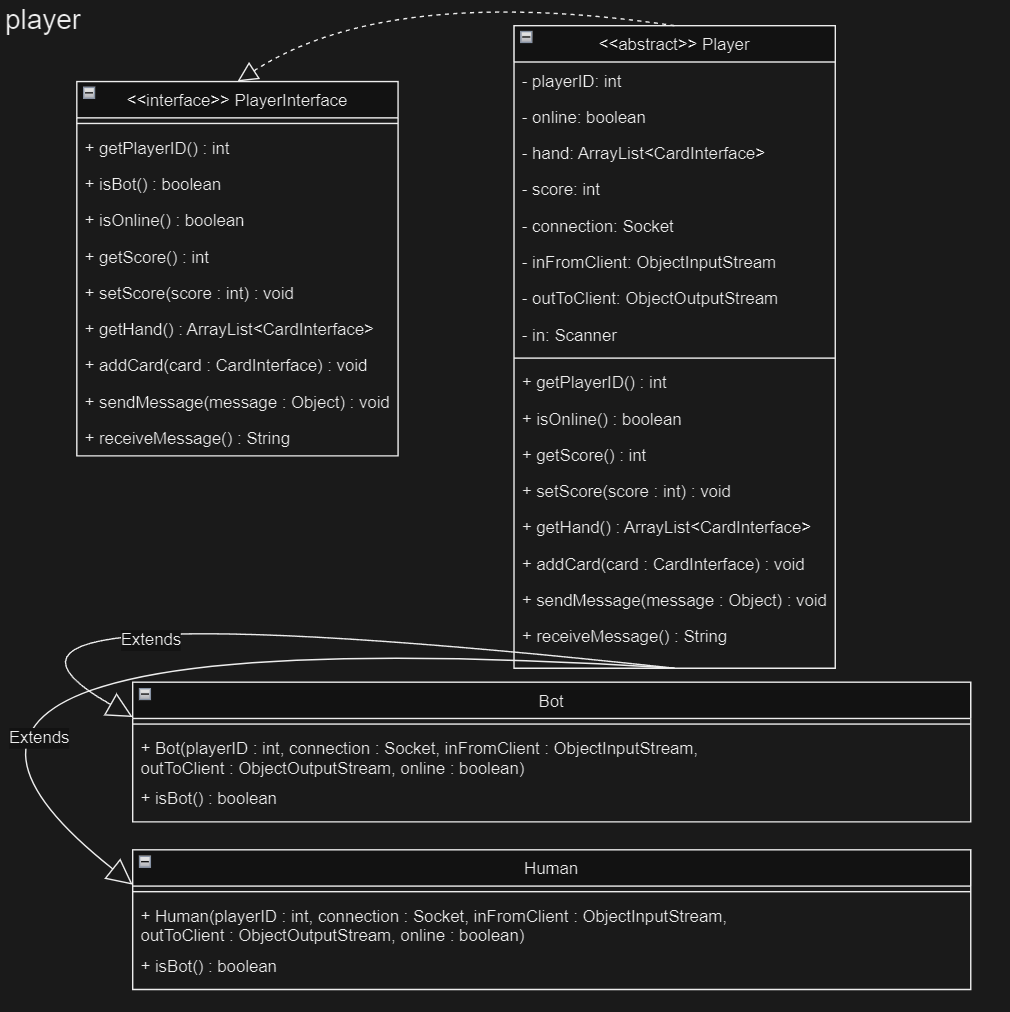
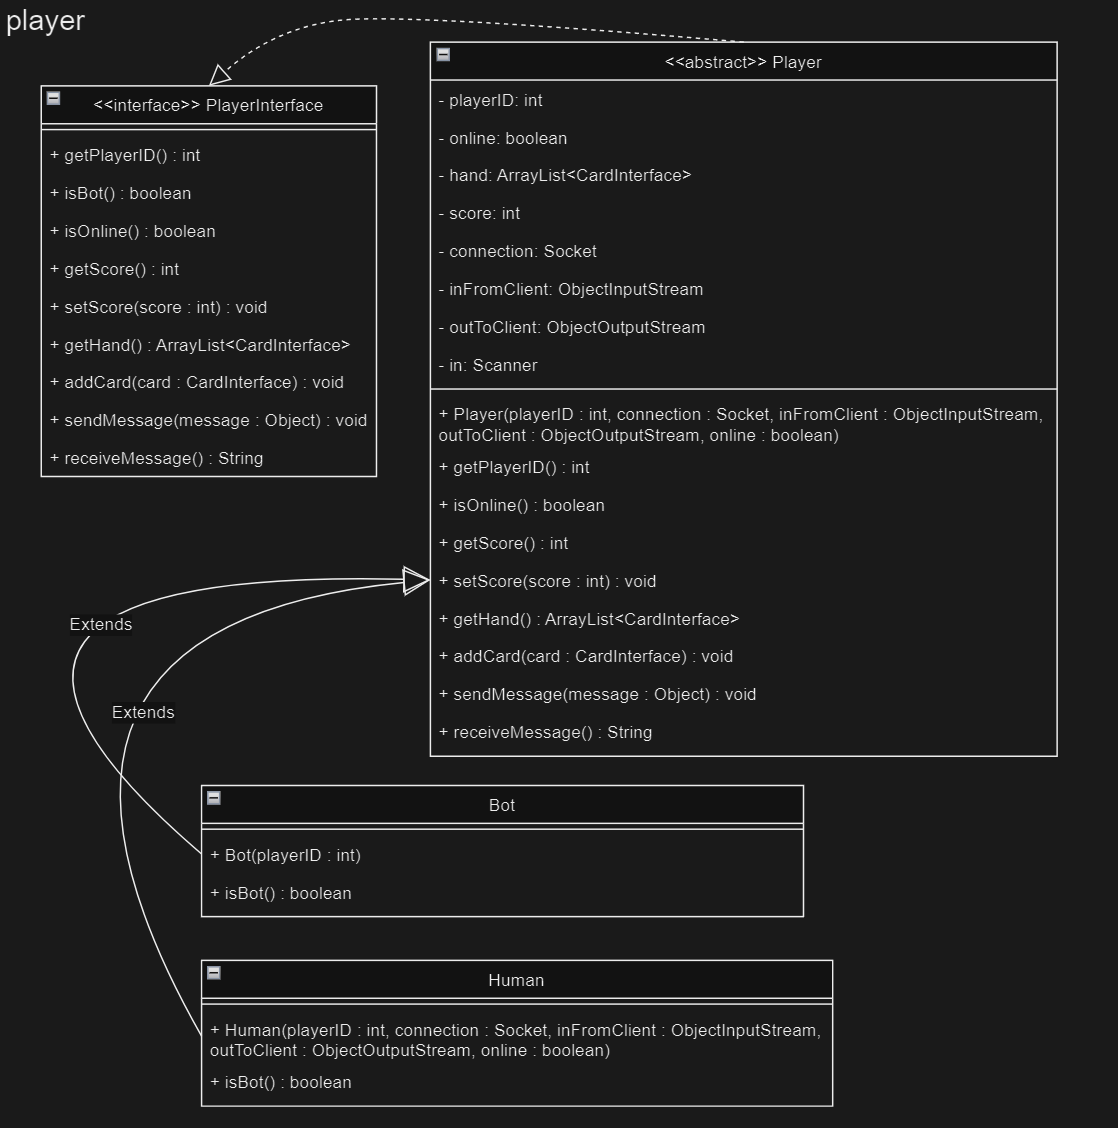
final fixes

diff --git a/src/PointSalad.java b/src/PointSalad.java
@@ -1,7 +1,9 @@
 package src;
 
 import src.game.GameLoop;
+import src.game.GameLoopInterface;
 import src.game.GameSetup;
+import src.game.GameSetupInterface;
 import src.game.GameStateInterface;
 import src.network.Client;
 
@@ -9,10 +11,8 @@ public class PointSalad {
 
     public PointSalad(String[] args) {
 
-        System.out.println("Starting Point Salad with args: " + args[0]);
-
         // If client
-        if (args[0].equals("127.0.0.1")) {
+        if (args.length > 0 && args[0].equals("127.0.0.1")) {
 
             try {
                 new Client(args[0]);
@@ -23,21 +23,14 @@ public class PointSalad {
         } else { // Else server
 
             // Create setup
-            GameSetup setup = new GameSetup(args);
+            GameSetupInterface setup = new GameSetup(args);
 
             // Create game state
             GameStateInterface gameState = setup.getState();
 
             // Create game loop object
-            GameLoop gameInstance = new GameLoop(gameState);
-
-            // Start game loop
-            gameInstance.startGameLoop();
-
+            GameLoopInterface gameInstance = new GameLoop(gameState);
         }
-
-        
-
     }
 
     public static void main(String[] args) {

diff --git a/src/game/GameSetup.java b/src/game/GameSetup.java
@@ -38,11 +38,10 @@ public class GameSetup implements GameSetupInterface {
         if (userInput.length == 0) {
 
             System.out.println("Please enter the number of players (1-6): ");
-            try (Scanner in = new Scanner(System.in)) {
-                this.numberOfHumans = in.nextInt();
-                System.out.println("Please enter the number of bots (0-5): ");
-                this.numberOfBots = in.nextInt();
-            }
+            Scanner in = new Scanner(System.in); 
+            this.numberOfHumans = in.nextInt();
+            System.out.println("Please enter the number of bots (0-5): ");
+            this.numberOfBots = in.nextInt();
 
         } else if (userInput[0].matches("\\d+")) {
                 

diff --git a/src/Testing/GameLoopTest.java b/src/Testing/GameLoopTest.java
@@ -156,7 +156,7 @@ public class GameLoopTest {
         // Create players
         ArrayList<PlayerInterface> players = new ArrayList<PlayerInterface>();
         for (int i = 0; i < 3; i++) {
-            players.add(new Bot(i, null, null, null)); 
+            players.add(new Bot(i)); 
         }
 
         int currentPlayer = (int) (Math.random() * 3);
@@ -192,7 +192,7 @@ public class GameLoopTest {
         // Create players
         ArrayList<PlayerInterface> players = new ArrayList<PlayerInterface>();
         for (int i = 0; i < 3; i++) {
-            players.add(new Bot(i, null, null, null)); 
+            players.add(new Bot(i)); 
         }
 
         int currentPlayer = (int) (Math.random() * 3);

diff --git a/src/player/Bot.java b/src/player/Bot.java
@@ -1,13 +1,9 @@
 package src.player;
 
-import java.io.ObjectInputStream;
-import java.io.ObjectOutputStream;
-import java.net.Socket;
-
 public class Bot extends Player {
     
-    public Bot(int playerID, Socket connection, ObjectInputStream inFromClient, ObjectOutputStream outToClient) {
-        super(playerID, connection, inFromClient, outToClient, false);
+    public Bot(int playerID) {
+        super(playerID, null, null, null, false);
     }
 
     @Override

diff --git a/src/network/Server.java b/src/network/Server.java
@@ -21,7 +21,7 @@ public class Server {
         players.add(new Human(0, null, null, null, false)); // add this instance as a player
         
         for (int i = 0; i < numberOfBots; i++) {
-            players.add(new Bot(i + 1, null, null, null)); // add a bot
+            players.add(new Bot(i + 1)); // add a bot
         }
 
         if (numberPlayers > 1) {

diff --git a/src/game/GameLoop.java b/src/game/GameLoop.java
@@ -29,6 +29,8 @@ public class GameLoop implements GameLoopInterface {
 
         this.humanLogic = new HumanLogic();
         this.botLogic = new BotLogic();
+
+        startGameLoop();
     }
  
     public void startGameLoop() {

diff --git a/README.md b/README.md
@@ -2,21 +2,33 @@
 
 This is the home exam for the course [D7032E Software engineering](https://www.ltu.se/utbildning/kurs/d70/d7032e-programvaruteknik) for fourth year students in Computer Science at Luleå tekniska universitet.
 
-## Requirements
-
 ## How to run
 
 1. Download the repo files
 
 2. While inside the repo folder, run in your terminal:
-```chmod +x compile.sh server.sh client.sh```
+```bash
+chmod +x compile.sh server.sh client.sh
+```
 
-3. Run ```./compile.sh``` 
+3. Compile with:
+```bash
+./compile.sh
+``` 
 
-4. Run ```./server.sh``` to start and host the server
+4. To start and host the server, run:
+```bash
+./server.sh
+```
 
-5. Run ```./client.sh``` to connect to the server from another client
+5. To connect to the server from another client, run:
+```bash
+./client.sh
+```
 
 ## Testing
 
-
+Run tests with:
+```bash
+./runTests.sh
+```
